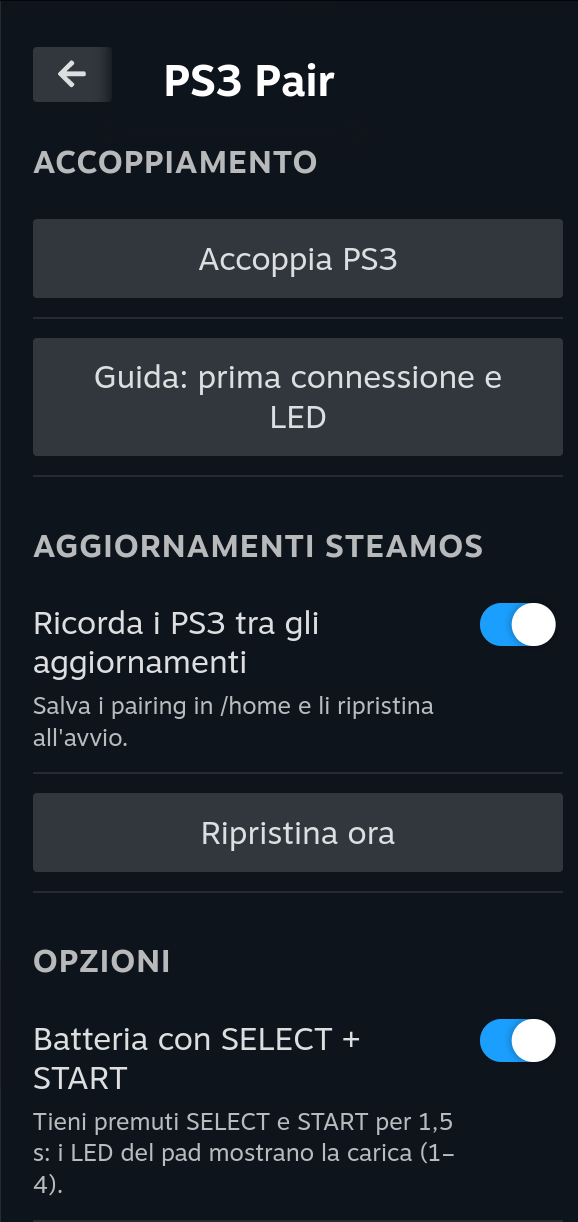
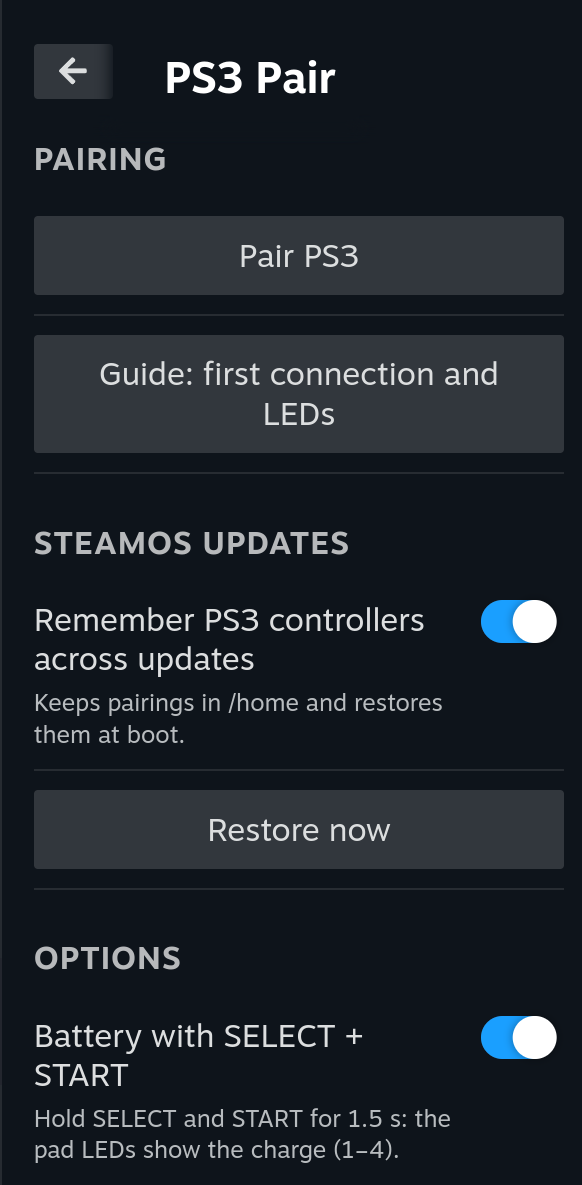
English screenshots, options menu screenshot, controller options in the README

diff --git a/README.md b/README.md
@@ -4,8 +4,8 @@ A [Decky Loader](https://github.com/SteamDeckHomebrew/decky-loader) plugin for u
 The interface follows the Steam language (English and Italian).
 
 <p>
-  <img src="docs/screenshots/menu-1.png" alt="PS3 Pair menu: pairing, guide, restore across updates, options" width="290">
-  <img src="docs/screenshots/menu-2.png" alt="PS3 Pair menu: controller list with player number and battery" width="290">
+  <img src="docs/screenshots/menu-1.png" alt="PS3 Pair menu: pairing, guide, restore across updates, options" width="270">
+  <img src="docs/screenshots/menu-2.png" alt="PS3 Pair menu: controller list with player number and battery" width="270">
 </p>
 
 ## Features
@@ -38,6 +38,24 @@ A DS3 cannot be discovered over Bluetooth: it only connects to the address store
 4. From now on, just press **PS**. With "Remember PS3 controllers across updates" on, this survives SteamOS updates too.
 
 Note: a DS3 remembers a single host. Plugging it into a PS3 console or another PC pairs it there, and it will need the cable on the Deck again.
+
+## Controller options
+
+Each PS3 in the list has an **Options** menu:
+
+<img src="docs/screenshots/options.png" alt="Options menu of a PS3 controller" width="290">
+
+| Option | What it does |
+|---|---|
+| **Identify** | blinks the pad's LEDs and rumbles it, to find which pad is which (connected pads only) |
+| **Rumble** | short rumble (connected pads only) |
+| **Turn off** | turns the pad off by closing its Bluetooth connection; with the cable plugged in it keeps charging |
+| **Show battery on LEDs** | same as holding SELECT + START on the pad |
+| **Battery info** | usage time since the last full charge and for the previous cycle |
+| **Rename** | gives the pad a custom name shown in the list (leave empty for the default) |
+| **Remove** | removes the pad from Bluetooth and from the backup; it will need the cable again |
+
+Other buttons: **Turn off all PS3 controllers** above the list, and **Restore now** under "Remember PS3 controllers across updates", which restores missing pads from the backup and restarts Bluetooth: other Bluetooth devices reconnect a moment later, and in Desktop Mode KDE may stop answering Bluetooth requests until the next reboot.
 
 ## What the LEDs mean
 
